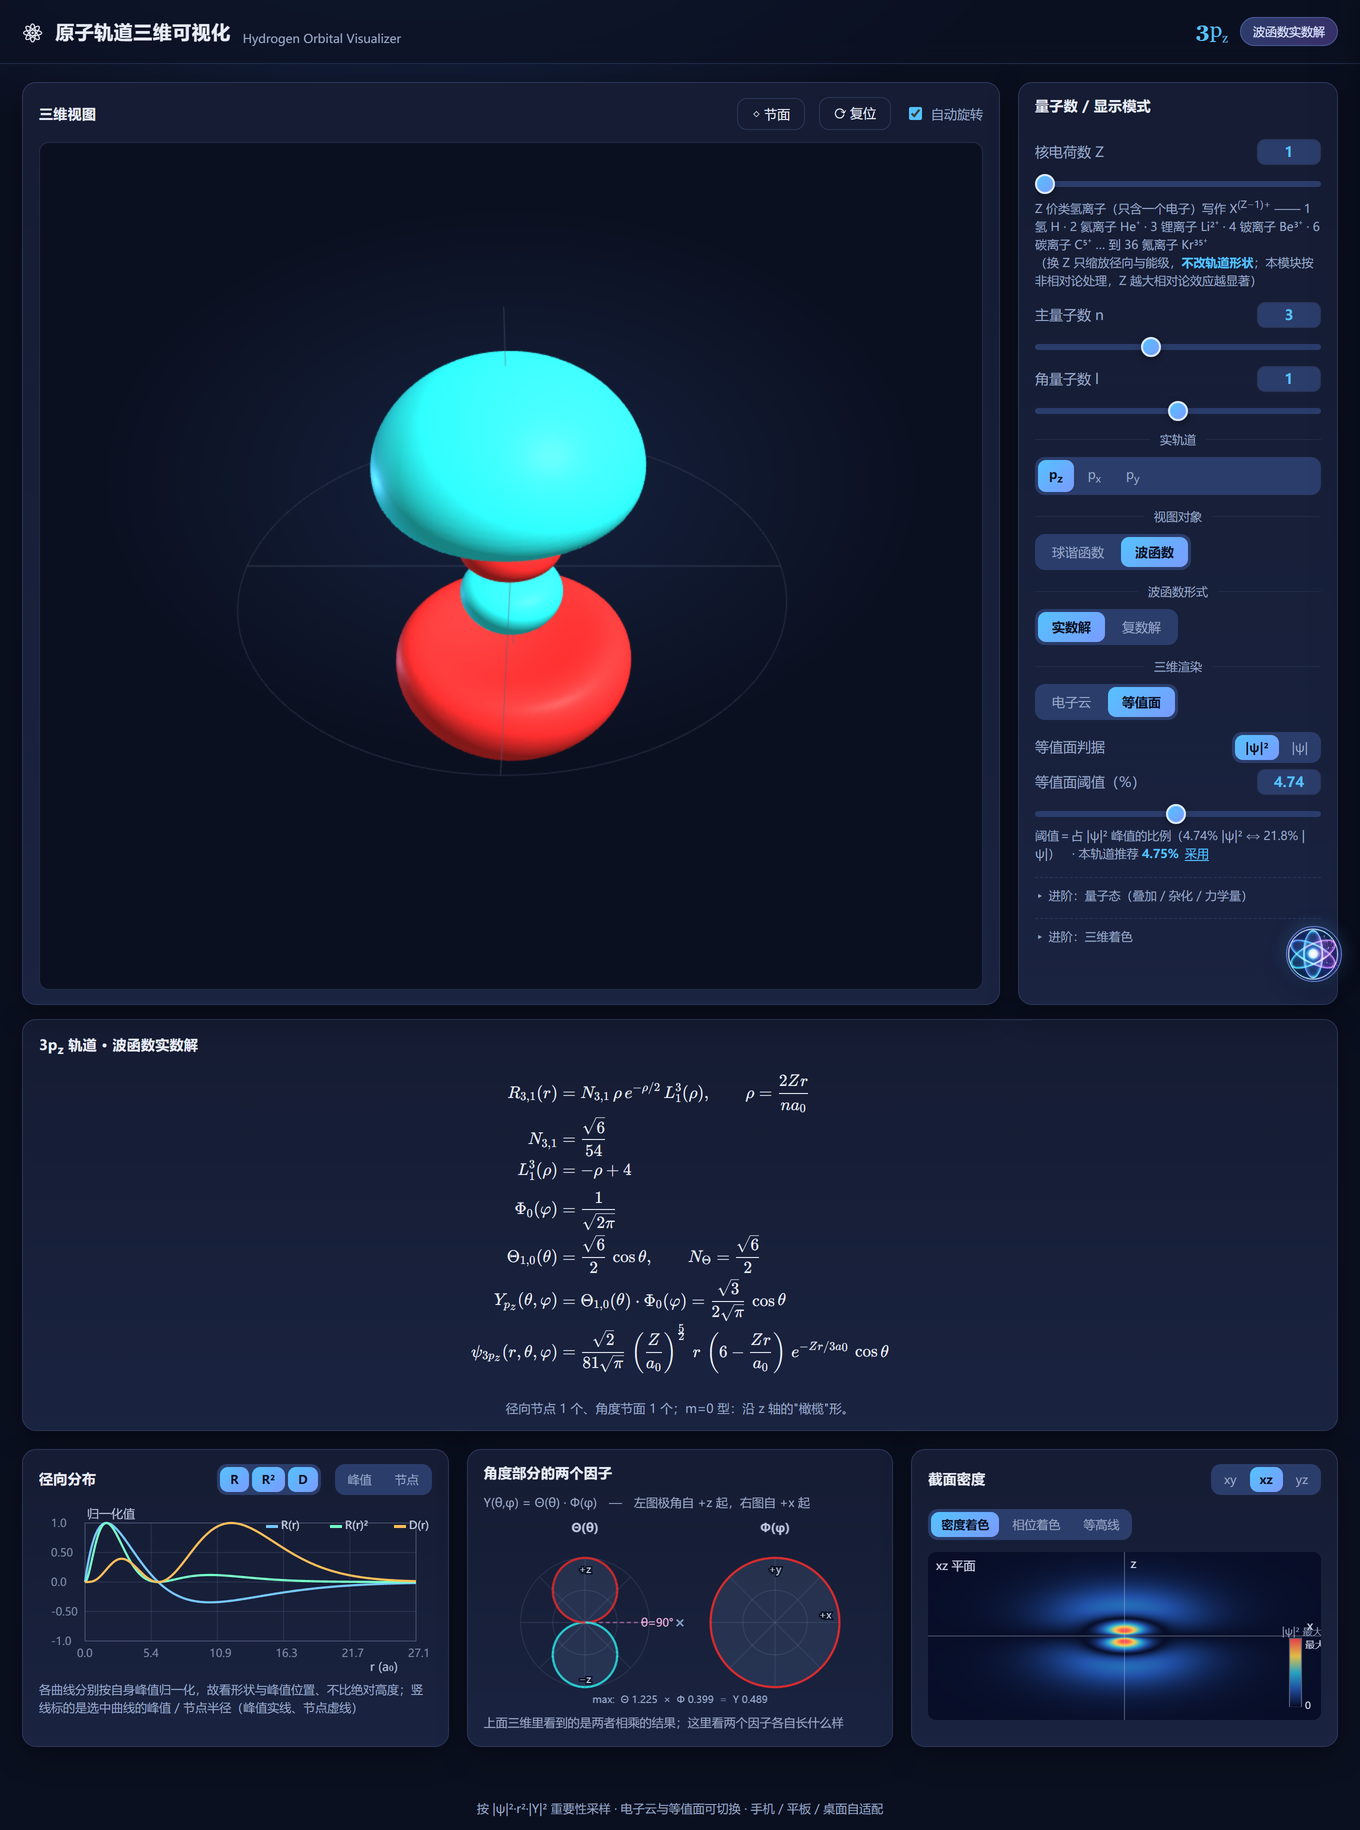
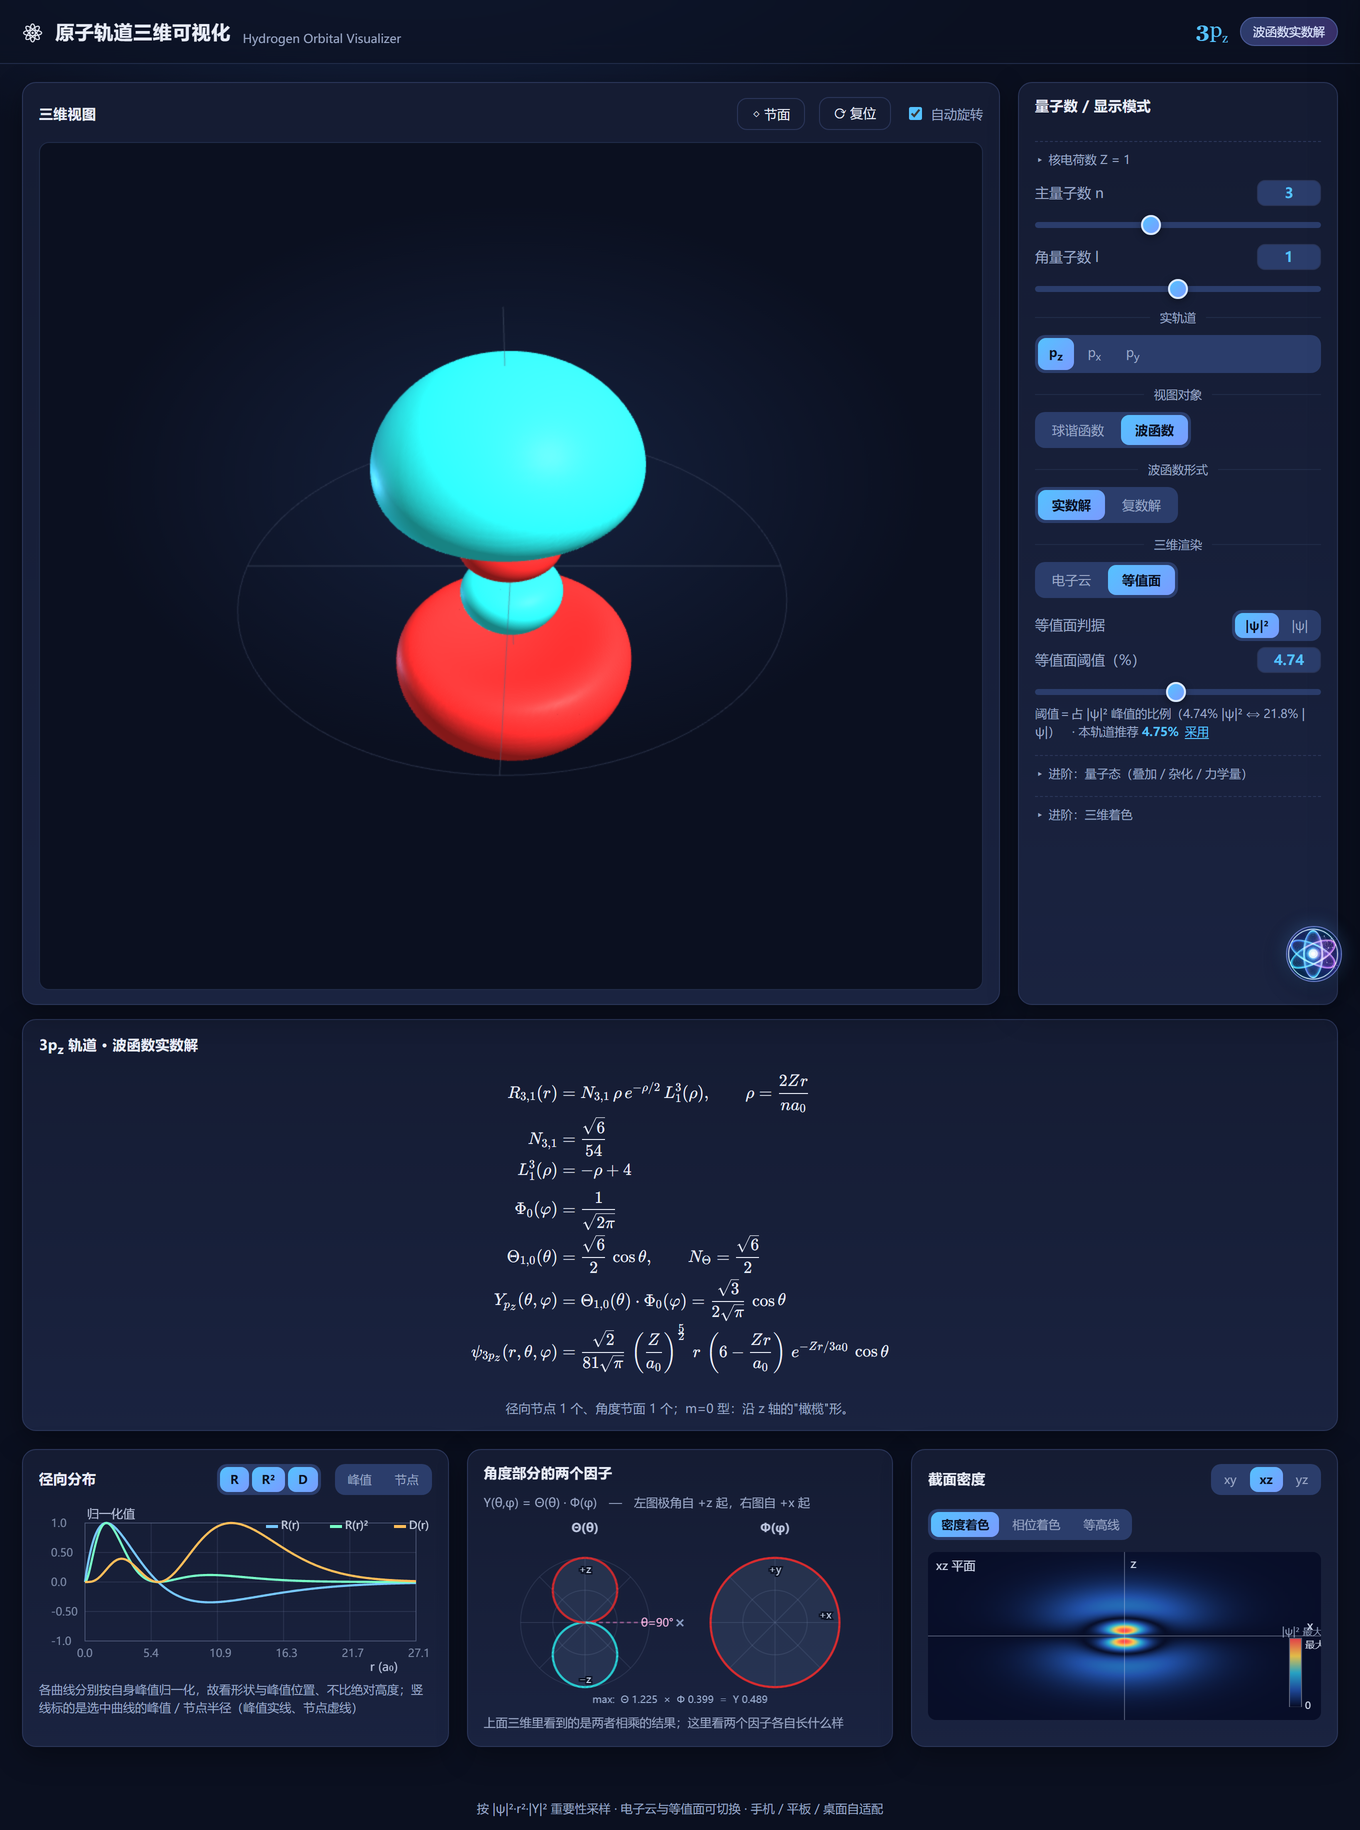
feat(ui): 核电荷数收进折叠区 —— 标题保留当前值；重出预览图并同步 README
Z 默认 1（氢），已覆盖绝大多数教学场景；而它摊在面板顶上时占掉一大块
（label + 输入框 + 滑块 + 两行提示），学生一节课未必动它一次。

· index.html：把 Z 包进 <details class="adv-zone" id="zZone">，默认收起，
  summary 显示当前值（`▸ 核电荷数 Z = 1`）
· main.js：新增 syncZZoneSummary()，在 recompute 里把 state.Z 写回标题。
  ★ 这不是装饰，是折叠的**必要条件**：Z 会静默改掉所有尺度与能级
    （r → r/Z、E ∝ Z²），折起来之后若标题只剩"核电荷数"四个字，
    学生改过一次再折回去，就再也想不起来画面为什么和刚才不一样了。
  该函数按值比对后才写 DOM（recompute 走得很频繁）；同时给它绑上 bindAdvScroll，
  展开时新内容会自动滚进视野。
· 重出 docs/preview.png 与 agent.png（面板变了）；isosurface / complex-phase 只含
  三维视图、内容不受影响，一并重出以保持同一批图。
· 两份 README 同步：Z 从"主控件"改写为"收在折叠区、标题带当前值"。

Changed region(s): [[0.7412, 0.0623, 0.9882, 0.5295]]

diff --git a/H5/index.html b/H5/index.html
@@ -49,21 +49,28 @@
              --panel-h），内容比它高时要在**内部**滚动，而不是把整行栅格撑高 -->
         <div class="panel-body">
 
-        <div class="set">
-          <!-- ★ 核电荷数 Z 放在量子数**之前**：它决定"这是哪个原子"，比 n/l/m 更根本。
-               类氢离子与氢只差一条标度关系（r → r/Z），所以换 Z 不改变任何公式的形状。
-               ★ 上限 36 **不是数学限制**：类氢公式对任意正整数 Z 都成立，只是纯缩放 ——
-                 形状一模一样，变的只有尺度（r→r/Z）与能级（E∝Z²）。Z=100 在数学上照样成立。
-                 真正的边界是**物理**的：Z 越大电子越贴核、速度越接近光速，而非相对论公式的
-                 相对论修正 ~(Zα)²（α≈1/137）—— Z=36 时约 7%。所以范围定在 1–36：
-                 再高就该只作定性示意，不该拿本模块的数值下定量结论。 -->
-          <div class="row"><label for="zInput">核电荷数 Z</label>
-            <input type="number" id="zInput" class="num-val" min="1" max="36" step="1" value="1" /></div>
-          <input type="range" id="zSlider" min="1" max="36" step="1" value="1" />
-          <div class="hint">Z 价类氢离子（只含一个电子）写作 X<sup>(Z−1)+</sup> ——
-            1 氢 H · 2 氦离子 He⁺ · 3 锂离子 Li²⁺ · 4 铍离子 Be³⁺ · 6 碳离子 C⁵⁺ … 到 36 氪离子 Kr³⁵⁺<br>
-            （换 Z 只缩放径向与能级，<b>不改轨道形状</b>；本模块按非相对论处理，Z 越大相对论效应越显著）</div>
-        </div>
+        <!-- ★ 核电荷数 Z **收进折叠区**（用户：它不是重要的东西）。
+             它决定"这是哪个原子"，但默认 Z = 1（氢）已覆盖绝大多数教学场景 ——
+             摊在面板顶部时它占掉一大块（label + 输入框 + 滑块 + 两行提示），
+             而学生一节课可能一次都不动它。
+             ★ summary 上**必须带当前值**：折起来之后，若标题只剩"核电荷数"四个字，
+               学生就再也想不起来自己是不是改过它了 —— 而 Z 会静默改掉所有尺度与能级
+               （r → r/Z、E ∝ Z²）。值由 main.js 的 syncZZoneSummary 写回。
+             ★ 上限 36 **不是数学限制**：类氢公式对任意正整数 Z 都成立，只是纯缩放 ——
+               形状一模一样，变的只有尺度与能级。真正的边界是**物理**的：Z 越大电子越贴核、
+               速度越接近光速，而非相对论公式的相对论修正 ~(Zα)²（α≈1/137）——
+               Z=36 时约 7%。再高只宜作定性示意，不该拿本模块的数值下定量结论。 -->
+        <details class="adv-zone" id="zZone">
+          <summary class="adv-summary">核电荷数 Z = 1</summary>
+          <div class="set">
+            <div class="row"><label for="zInput">核电荷数 Z</label>
+              <input type="number" id="zInput" class="num-val" min="1" max="36" step="1" value="1" /></div>
+            <input type="range" id="zSlider" min="1" max="36" step="1" value="1" />
+            <div class="hint">Z 价类氢离子（只含一个电子）写作 X<sup>(Z−1)+</sup> ——
+              1 氢 H · 2 氦离子 He⁺ · 3 锂离子 Li²⁺ · 4 铍离子 Be³⁺ · 6 碳离子 C⁵⁺ … 到 36 氪离子 Kr³⁵⁺<br>
+              （换 Z 只缩放径向与能级，<b>不改轨道形状</b>；本模块按非相对论处理，Z 越大相对论效应越显著）</div>
+          </div>
+        </details>
         <div class="set">
           <div class="row"><label for="nInput">主量子数 n</label>
             <input type="number" id="nInput" class="num-val" min="1" max="6" step="1" value="3" /></div>

diff --git a/H5/js/main.js b/H5/js/main.js
@@ -405,6 +405,7 @@
   // ---- 主重算 ---------------------------------------------------------------
   function recompute() {
     readFromControls();
+    syncZZoneSummary();          // 折叠区标题上的 Z 跟着走（见该函数的说明）
     // ★ 换轨道时套用该轨道的推荐阈值（用户/智能体明确指定过就不动，见 levelUserAdjusted）。
     //   必须放在 readFromControls 之后：那时 n/l/m 已是新值，而 level 刚被滑块覆盖成旧值，
     //   正需要在这里改掉。轨道标识不含 psiCrit —— 切判据按既有设计保持读数不变。
@@ -766,6 +767,23 @@
         if (over > 0) body.scrollTop += over + 10;   // +10 留一点余白，别贴着底边
       });
     });
+  }
+
+  /**
+   * 把当前 Z 写回「核电荷数」折叠区的标题。
+   *
+   * ★ 为什么必须写：Z 收进折叠区后，summary 是学生判断"这是哪个原子"的**唯一线索**。
+   *   Z 会静默改掉所有尺度与能级（r → r/Z、E ∝ Z²），标题上不写出来，
+   *   学生改过一次再折回去，就再也想不起来画面为什么和刚才不一样了。
+   */
+  let lastZSummary = '';
+  function syncZZoneSummary() {
+    const sm = document.querySelector('#zZone summary');
+    if (!sm) return;
+    const txt = '核电荷数 Z = ' + (state.Z || 1);
+    if (txt === lastZSummary) return;      // recompute 走得很频繁，值没变就别碰 DOM
+    lastZSummary = txt;
+    sm.textContent = txt;
   }
 
   // ---- 事件绑定 -----------------------------------------------------------
@@ -1278,9 +1296,10 @@
     Orbit3D.init(els.viewer);
     bindEvent();
     // 进阶折叠区：展开后把新内容滚进可视区（第 2 条）。
-    // ★ 这里只管**静态**的「三维着色」；「量子态」那个是 state-editor.js 动态建的，
-    //   由它建完后自己调 OrbitApp.bindAdvScroll —— toggle 不冒泡，只能逐个绑。
+    // ★ 这里管**静态**的那两个（核电荷数、三维着色）；「量子态」那个是 state-editor.js
+    //   动态建的，由它建完后自己调 OrbitApp.bindAdvScroll —— toggle 不冒泡，只能逐个绑。
     bindAdvScroll(document.getElementById('colorZone'));
+    bindAdvScroll(document.getElementById('zZone'));
     // 记下初始档位 —— 这样 applyModeDefaultColor 只在**真的换档**时才重置着色，
     // 不会在启动时把 HTML 里写好的初始选中项又改一遍。
     lastModeForColor = activeValue('#modeSeg', 'data-mode') || 'real';

diff --git a/H5/README.md b/H5/README.md
@@ -4,7 +4,8 @@
 
 ## ✨ 功能特性
 
-- **量子数控制**：滑块与**数字输入框**双通道调节**核电荷数 `Z`**（1–36）、主量子数 `n`（1–6）、角量子数 `l`，以及**实轨道**逐项选择（实数解档按化学名给按钮 `p_z / p_x / p_y`、`d_z² / d_xz / …`），实时联动（l 上限随 n、m 范围随 l 自动收窄）；输入框会校验类型与范围，非法值标红提示且不改变状态。
+- **量子数控制**：滑块与**数字输入框**双通道调节主量子数 `n`（1–6）、角量子数 `l`，以及**实轨道**逐项选择（实数解档按化学名给按钮 `p_z / p_x / p_y`、`d_z² / d_xz / …`），实时联动（l 上限随 n、m 范围随 l 自动收窄）；输入框会校验类型与范围，非法值标红提示且不改变状态。
+- **核电荷数 `Z`**（1–36）收在面板顶部的**折叠区**里（默认 `Z = 1` 氢）——摊开会占掉一大块，而多数教学场景用不到它。折叠后**标题仍带当前值**（`▸ 核电荷数 Z = 1`）：`Z` 会静默改掉所有尺度与能级（`r → r/Z`、`E ∝ Z²`），标题不写出来，学生改过再折回去就想不起来画面为什么变了。
 - **三维视图有两个档位**（面板「视图对象」切换）——共用同一个三维窗口与同一套相机/操作（旋转/缩放/平移/自动旋转/复位），但底层是**两套几何**：
   - **球谐函数**（角度部分 `Y`）：极坐标曲面 `r = |Y|` 或 `|Y|²`，解析形状直接三角化。**实数解**按 `sign(Y)` 分 ±红/青，**复数解**按相位彩虹着色。**p_z 画出来就是两个相切的球面**；它只依赖 `l`、`m`、**与 `n` 无关**——切 n 时曲面纹丝不动，这正是"2p_z 与 3p_z 角度分布相同"的可视化证据。
   - **波函数**（完整 ψ）：按概率密度 `|ψ|²` 实时生成（**默认等值面**，可切电子云）

diff --git a/README.md b/README.md
@@ -17,7 +17,9 @@
 
 ## ✨ 功能特性
 
-**量子数实时联动**：滑块与**数字输入框**双通道调节**核电荷数 `Z`**（1–36）、主量子数 `n`（1–6）、角量子数 `l`，以及**实轨道**逐项选择（实数解档按化学名给按钮：`p_z / p_x / p_y`、`d_z² / d_xz / …`，直到 `l = 5` 的 11 个直角坐标多项式）；`l` 上限随 `n`、`m` 范围随 `l` 自动收窄；输入框校验类型与范围，非法值标红且不改变状态。
+**量子数实时联动**：滑块与**数字输入框**双通道调节主量子数 `n`（1–6）、角量子数 `l`，以及**实轨道**逐项选择（实数解档按化学名给按钮：`p_z / p_x / p_y`、`d_z² / d_xz / …`，直到 `l = 5` 的 11 个直角坐标多项式）；`l` 上限随 `n`、`m` 范围随 `l` 自动收窄；输入框校验类型与范围，非法值标红且不改变状态。
+
+**核电荷数 `Z`**（1–36）另收在面板顶部的**折叠区**里——它决定"这是哪个原子"，但默认 `Z = 1`（氢）已覆盖绝大多数教学场景，摊在面板上会占掉一大块而学生一节课未必动它一次。折叠后**标题仍写着当前值**（`▸ 核电荷数 Z = 1`）：`Z` 会静默改掉所有尺度与能级（`r → r/Z`、`E ∝ Z²`），不写出来，学生改过再折回去就想不起来画面为什么变了。
 
 **三维视图有两个档位**（面板「视图对象」切换）——两者共用同一个三维窗口、同一套相机与操作（旋转 / 缩放 / 平移 / 自动旋转 / 复位），但底层是**两套几何**：
 
